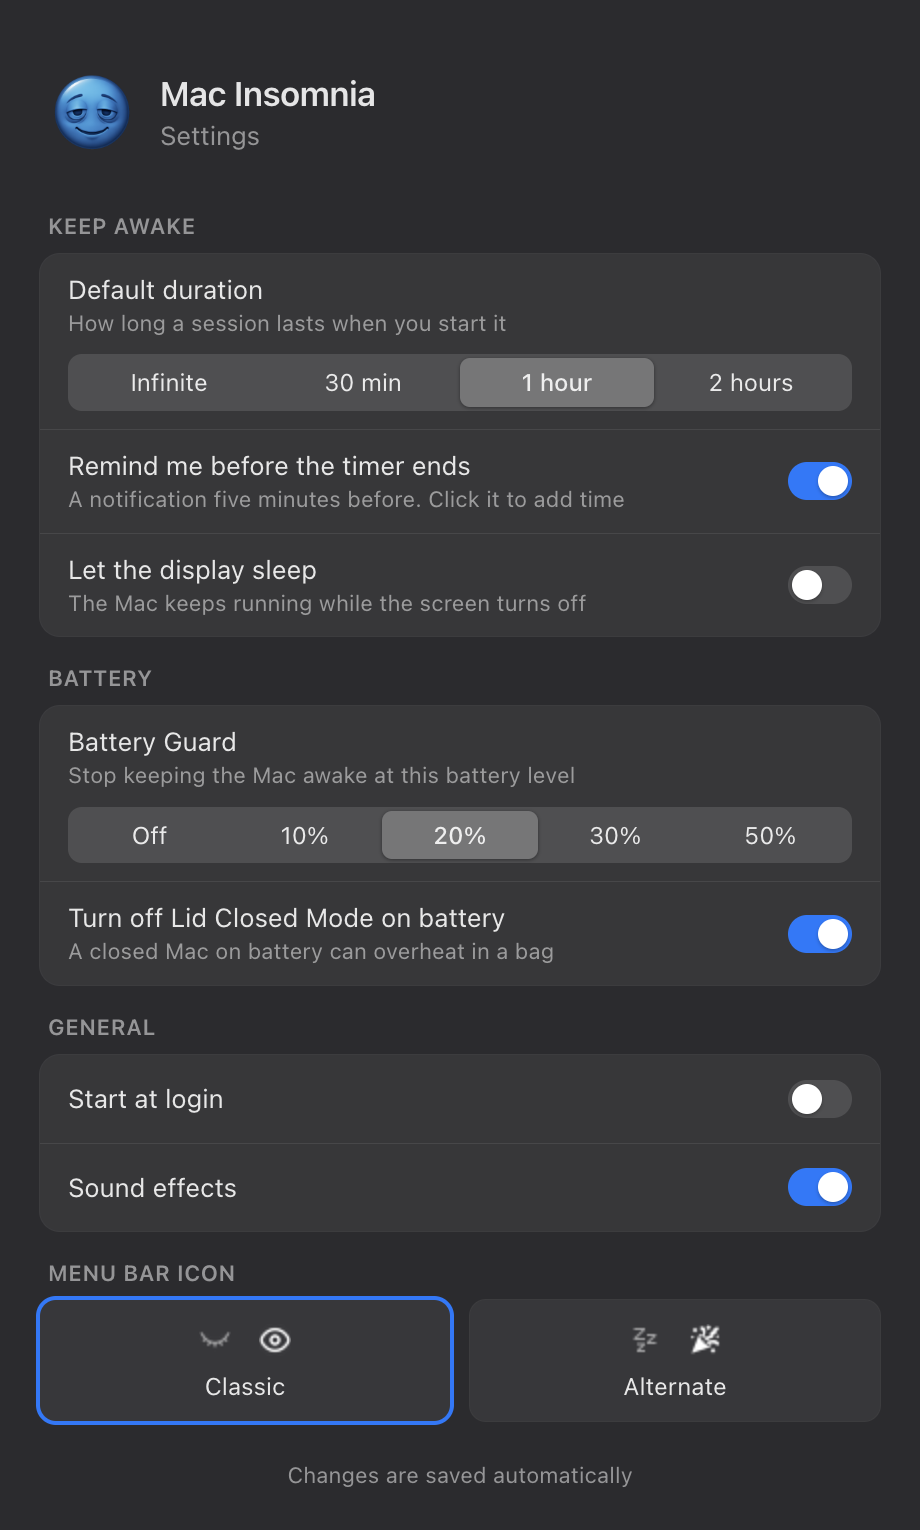
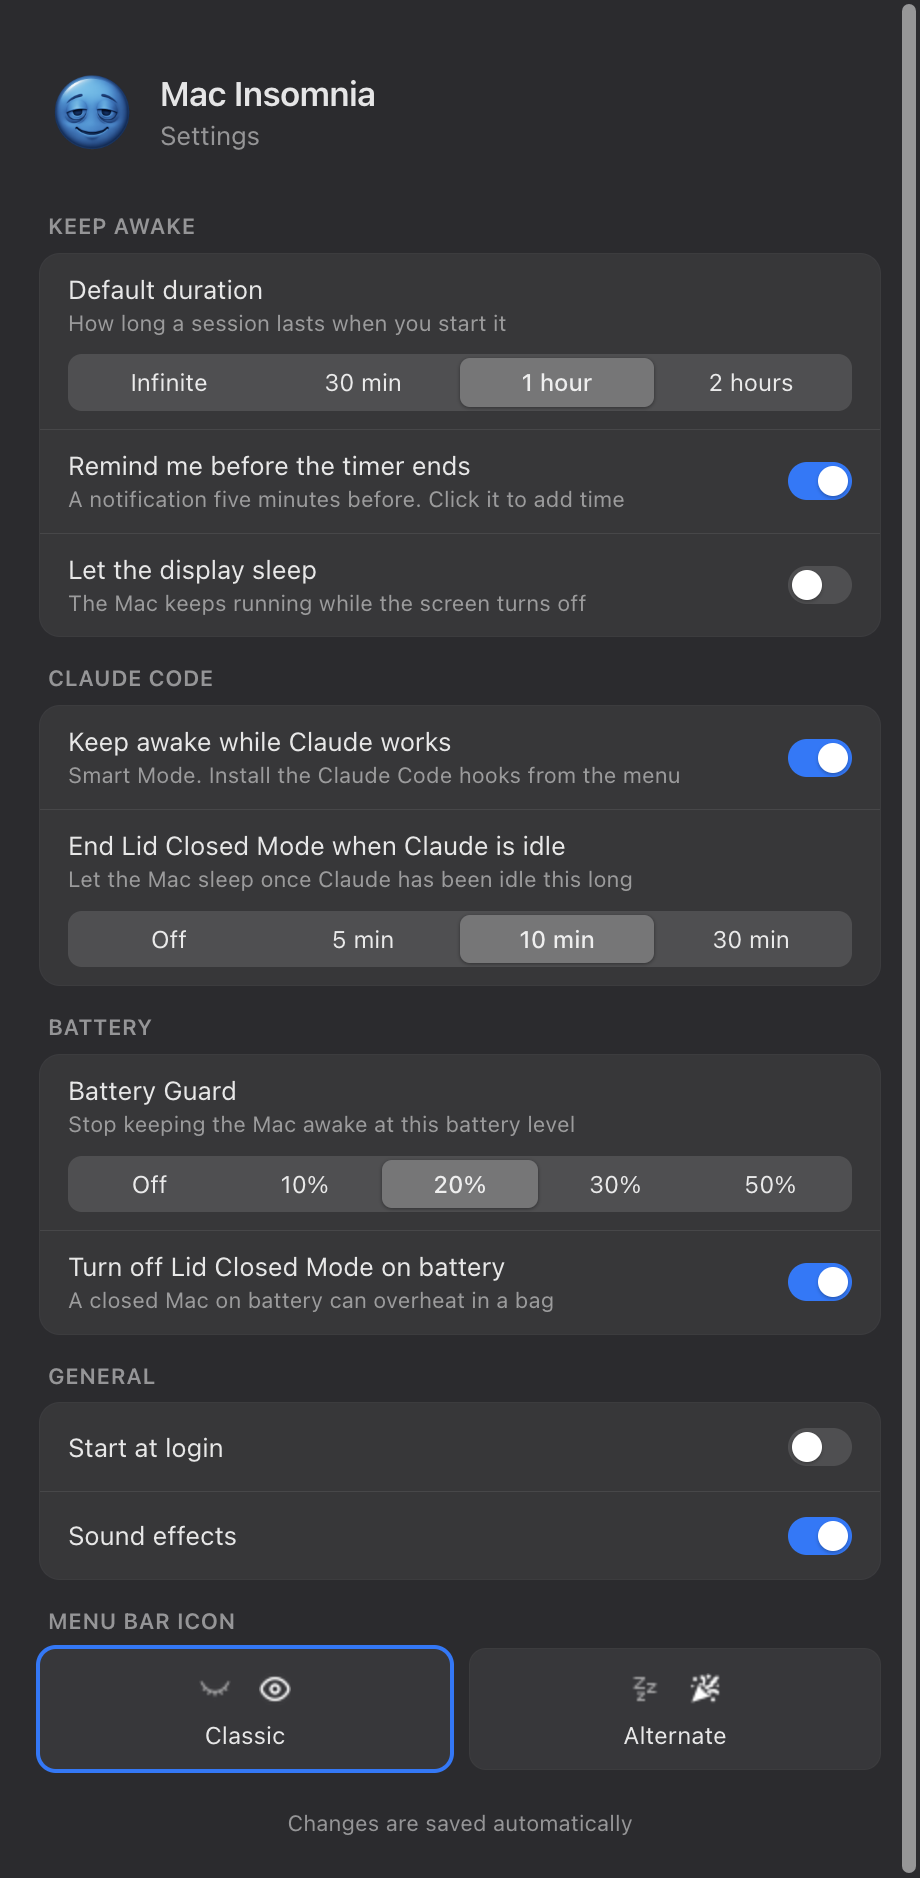
End Lid Closed Mode when Claude has been idle
With Smart Mode on, once no Claude Code session has worked for the
chosen time (5/10/30 minutes, 10 by default, or off), Insomnia stops the
session and Lid Closed Mode so the Mac can sleep instead of staying awake
in a closed bag. The countdown starts when the last session goes idle and
resets when Claude works again; no polling. Settings gets a Claude Code
group with this and the Smart Mode switch. Windows are capped to the
screen height. README and screenshots updated.

diff --git a/main/main.js b/main/main.js
@@ -1,9 +1,10 @@
-const { app, Tray, Menu, nativeImage, BrowserWindow, ipcMain, dialog, powerMonitor, Notification, shell, systemPreferences } = require('electron');
+const { app, Tray, Menu, nativeImage, BrowserWindow, ipcMain, dialog, powerMonitor, Notification, shell, systemPreferences, screen } = require('electron');
 const path = require('path');
 const fs = require('fs');
 const { spawn, execFile } = require('child_process');
 const { LidSleepController } = require('./lid-sleep');
 const { keepAwakeArgs } = require('./keep-awake-args');
+const { DEFAULT_IDLE_MINUTES, normalizeIdleMinutes, shouldArmIdleTimer } = require('./claude-lid');
 const { warningPlan, extendedEndTime, minutesLeft, extendLabel } = require('./timer-warning');
 const { GUARD_LEVELS, DEFAULT_GUARD_PERCENT, BatteryMonitor, normalizeGuardPercent, shouldMonitor, shouldStop, shouldResumeSmartMode, lidModeAllowed } = require('./battery-guard');
 const { parseCommandUrl } = require('./url-commands');
@@ -30,7 +31,8 @@ let settings = {
     allowDisplaySleep: false,
     batteryGuardPercent: DEFAULT_GUARD_PERCENT,
     lidOffOnBattery: true,
-    timerWarning: true
+    timerWarning: true,
+    lidEndsWhenClaudeIdle: DEFAULT_IDLE_MINUTES
 };
 
 let tray = null;
@@ -44,6 +46,8 @@ let endTimer = null;
 let warnTimer = null;
 let warningNotification = null;
 let timerArmedAt = null;
+let lidIdleTimer = null;
+let lidIdleMinutes = null;
 let warnedForEndTime = null;
 let soundProcess = null;
 let cachedMenu = null;
@@ -123,6 +127,11 @@ const SETTING_APPLIERS = {
         saveSettings();
     },
     allowDisplaySleep: (value) => setAllowDisplaySleep(Boolean(value)),
+    lidEndsWhenClaudeIdle: (value) => {
+        settings.lidEndsWhenClaudeIdle = normalizeIdleMinutes(value);
+        saveSettings();
+    },
+    smartMode: (value) => setSmartMode(Boolean(value)),
     timerWarning: (value) => {
         settings.timerWarning = Boolean(value);
         saveSettings();
@@ -135,7 +144,13 @@ const SETTING_APPLIERS = {
 
 function settingsForRenderer () {
     const accent = systemPreferences.getAccentColor?.() || '007affff';
-    return { ...settings, batteryGuardPercent: normalizeGuardPercent(settings.batteryGuardPercent), isDevelopment: isDevelopment(), accentColor: `#${accent.slice(0, 6)}` };
+    return {
+        ...settings,
+        batteryGuardPercent: normalizeGuardPercent(settings.batteryGuardPercent),
+        lidEndsWhenClaudeIdle: normalizeIdleMinutes(settings.lidEndsWhenClaudeIdle),
+        isDevelopment: isDevelopment(),
+        accentColor: `#${accent.slice(0, 6)}`
+    };
 }
 
 ipcMain.handle('set-setting', (_event, key, value) => {
@@ -173,7 +188,8 @@ function openWindow (existing, options, file) {
     win.loadFile(path.join(RENDERER_PATH, file));
     win.once('ready-to-show', async () => {
         const height = await win.webContents.executeJavaScript('document.documentElement.scrollHeight').catch(() => null);
-        if (Number.isInteger(height) && height > 0) win.setContentSize(win.getContentSize()[0], height);
+        const maxHeight = screen.getDisplayNearestPoint(screen.getCursorScreenPoint()).workAreaSize.height - 60;
+        if (Number.isInteger(height) && height > 0) win.setContentSize(win.getContentSize()[0], Math.min(height, maxHeight));
         win.center();
         win.show();
     });
@@ -245,6 +261,8 @@ function lidMenuItems () {
     if (lidSleep.active) {
         items.push({ label: '⚠ Sleep is disabled system-wide', enabled: false });
         items.push({ label: 'Keep the Mac on power and out of bags', enabled: false });
+        const idleMinutes = normalizeIdleMinutes(settings.lidEndsWhenClaudeIdle);
+        if (settings.smartMode && idleMinutes) items.push({ label: `Ends after ${idleMinutes} min with Claude idle`, enabled: false });
     } else if (!lidSleep.pending && lidSleep.systemSleepDisabled !== false) {
         const label = lidSleep.systemSleepDisabled === null ? '⚠ Could not read the sleep setting' : '⚠ Sleep is disabled system-wide (not by this session)';
         items.push({ label, enabled: false });
@@ -272,9 +290,33 @@ function applySmartMode () {
 }
 
 function toggleSmartMode () {
-    settings.smartMode = !settings.smartMode;
+    setSmartMode(!settings.smartMode);
+}
+
+function setSmartMode (value) {
+    settings.smartMode = value;
     saveSettings();
     applySmartMode();
+}
+
+function updateLidIdleTimer () {
+    const minutes = normalizeIdleMinutes(settings.lidEndsWhenClaudeIdle);
+    const arm = shouldArmIdleTimer({ idleMinutes: minutes, smartMode: settings.smartMode, lidActive: Boolean(lidSleep?.active), claudeBusy: Boolean(claudeWatcher?.count) });
+    if (arm && lidIdleTimer && lidIdleMinutes === minutes) return;
+    clearTimeout(lidIdleTimer);
+    lidIdleTimer = null;
+    lidIdleMinutes = null;
+    if (!arm) return;
+    lidIdleMinutes = minutes;
+    lidIdleTimer = setTimeout(() => onClaudeIdleTooLong(minutes), minutes * 60 * 1000);
+}
+
+function onClaudeIdleTooLong (minutes) {
+    lidIdleTimer = null;
+    lidIdleMinutes = null;
+    if (!lidSleep.active || !settings.smartMode || claudeWatcher?.count) return;
+    stopPlayback();
+    notify('Claude is done', `No Claude Code session has worked for ${minutes} minutes, so Insomnia turned off Lid Closed Mode and let the Mac sleep.`);
 }
 
 function smartStatusLabel () {
@@ -402,6 +444,7 @@ function refreshTray () {
     updateTooltip();
     invalidateMenu();
     updateBatteryMonitoring();
+    updateLidIdleTimer();
 }
 
 function isKeepingAwake () {
@@ -834,6 +877,7 @@ if (!app.requestSingleInstanceLock()) {
             return;
         }
         stopCaffeinate();
+        clearTimeout(lidIdleTimer);
         closeWarning();
         batteryMonitor?.stop();
         claudeWatcher?.stop();

diff --git a/renderer/settings.html b/renderer/settings.html
@@ -282,6 +282,29 @@
             </label>
         </section>
 
+        <h2>Claude Code</h2>
+        <section class="group">
+            <label class="row">
+                <span class="label">
+                    <span>Keep awake while Claude works</span>
+                    <span class="caption">Smart Mode. Install the Claude Code hooks from the menu</span>
+                </span>
+                <input class="switch" type="checkbox" data-setting="smartMode">
+            </label>
+            <div class="row stacked">
+                <div class="label">
+                    <span>End Lid Closed Mode when Claude is idle</span>
+                    <span class="caption">Let the Mac sleep once Claude has been idle this long</span>
+                </div>
+                <div class="segmented" data-setting="lidEndsWhenClaudeIdle">
+                    <button type="button" data-value="null">Off</button>
+                    <button type="button" data-value="5">5 min</button>
+                    <button type="button" data-value="10">10 min</button>
+                    <button type="button" data-value="30">30 min</button>
+                </div>
+            </div>
+        </section>
+
         <h2>Battery</h2>
         <section class="group">
             <div class="row stacked">

diff --git a/test/claude-lid.test.js b/test/claude-lid.test.js
@@ -1,0 +1,20 @@
+const test = require('node:test');
+const assert = require('node:assert');
+const { normalizeIdleMinutes, shouldArmIdleTimer } = require('../main/claude-lid');
+
+const base = { idleMinutes: 10, smartMode: true, lidActive: true, claudeBusy: false };
+
+test('the idle countdown runs only while lid closed mode is on, Smart Mode is on and Claude is not working', () => {
+    assert.equal(shouldArmIdleTimer(base), true);
+    assert.equal(shouldArmIdleTimer({ ...base, claudeBusy: true }), false);
+    assert.equal(shouldArmIdleTimer({ ...base, lidActive: false }), false);
+    assert.equal(shouldArmIdleTimer({ ...base, smartMode: false }), false);
+    assert.equal(shouldArmIdleTimer({ ...base, idleMinutes: null }), false);
+});
+
+test('the idle limit defaults to 10 minutes and accepts only the offered values or off', () => {
+    assert.equal(normalizeIdleMinutes(undefined), 10);
+    assert.equal(normalizeIdleMinutes(30), 30);
+    assert.equal(normalizeIdleMinutes(null), null);
+    assert.equal(normalizeIdleMinutes(7), 10);
+});

diff --git a/main/claude-lid.js b/main/claude-lid.js
@@ -1,0 +1,13 @@
+const IDLE_LEVELS = [5, 10, 30];
+const DEFAULT_IDLE_MINUTES = 10;
+
+function normalizeIdleMinutes (value) {
+    if (value === null) return null;
+    return IDLE_LEVELS.includes(Number(value)) ? Number(value) : DEFAULT_IDLE_MINUTES;
+}
+
+function shouldArmIdleTimer ({ idleMinutes, smartMode, lidActive, claudeBusy }) {
+    return Boolean(idleMinutes) && smartMode && lidActive && !claudeBusy;
+}
+
+module.exports = { IDLE_LEVELS, DEFAULT_IDLE_MINUTES, normalizeIdleMinutes, shouldArmIdleTimer };

diff --git a/README.md b/README.md
@@ -152,6 +152,7 @@ Lid Closed Mode cannot be turned on from a link, because it needs the warning an
 
   The cap covers a turn that ends without an idle event. The display may still sleep. Holds left behind by a crash of Mac Insomnia are cleared on its next launch.
 - **Background work.** The hold ends when Claude finishes its turn, even if it left a background command running. For long background runs, use the normal timer as well.
+- **End Lid Closed Mode when Claude is idle** (Settings → Claude Code, 10 minutes by default, or 5, 30 or Off). Turn on Lid Closed Mode, close the lid, and let Claude work. Once no Claude Code session has worked for that long, Insomnia turns Lid Closed Mode off and the Mac can sleep, so it does not stay awake in a closed bag for hours after Claude is done. The countdown starts when the last session goes idle and resets when Claude starts working again. It needs the hooks: in scan mode an open session never counts as idle.
 - **Remove Claude Code Hooks…** removes only these hooks and keeps every other hook, including one that shares a group with them.
 
 ---
